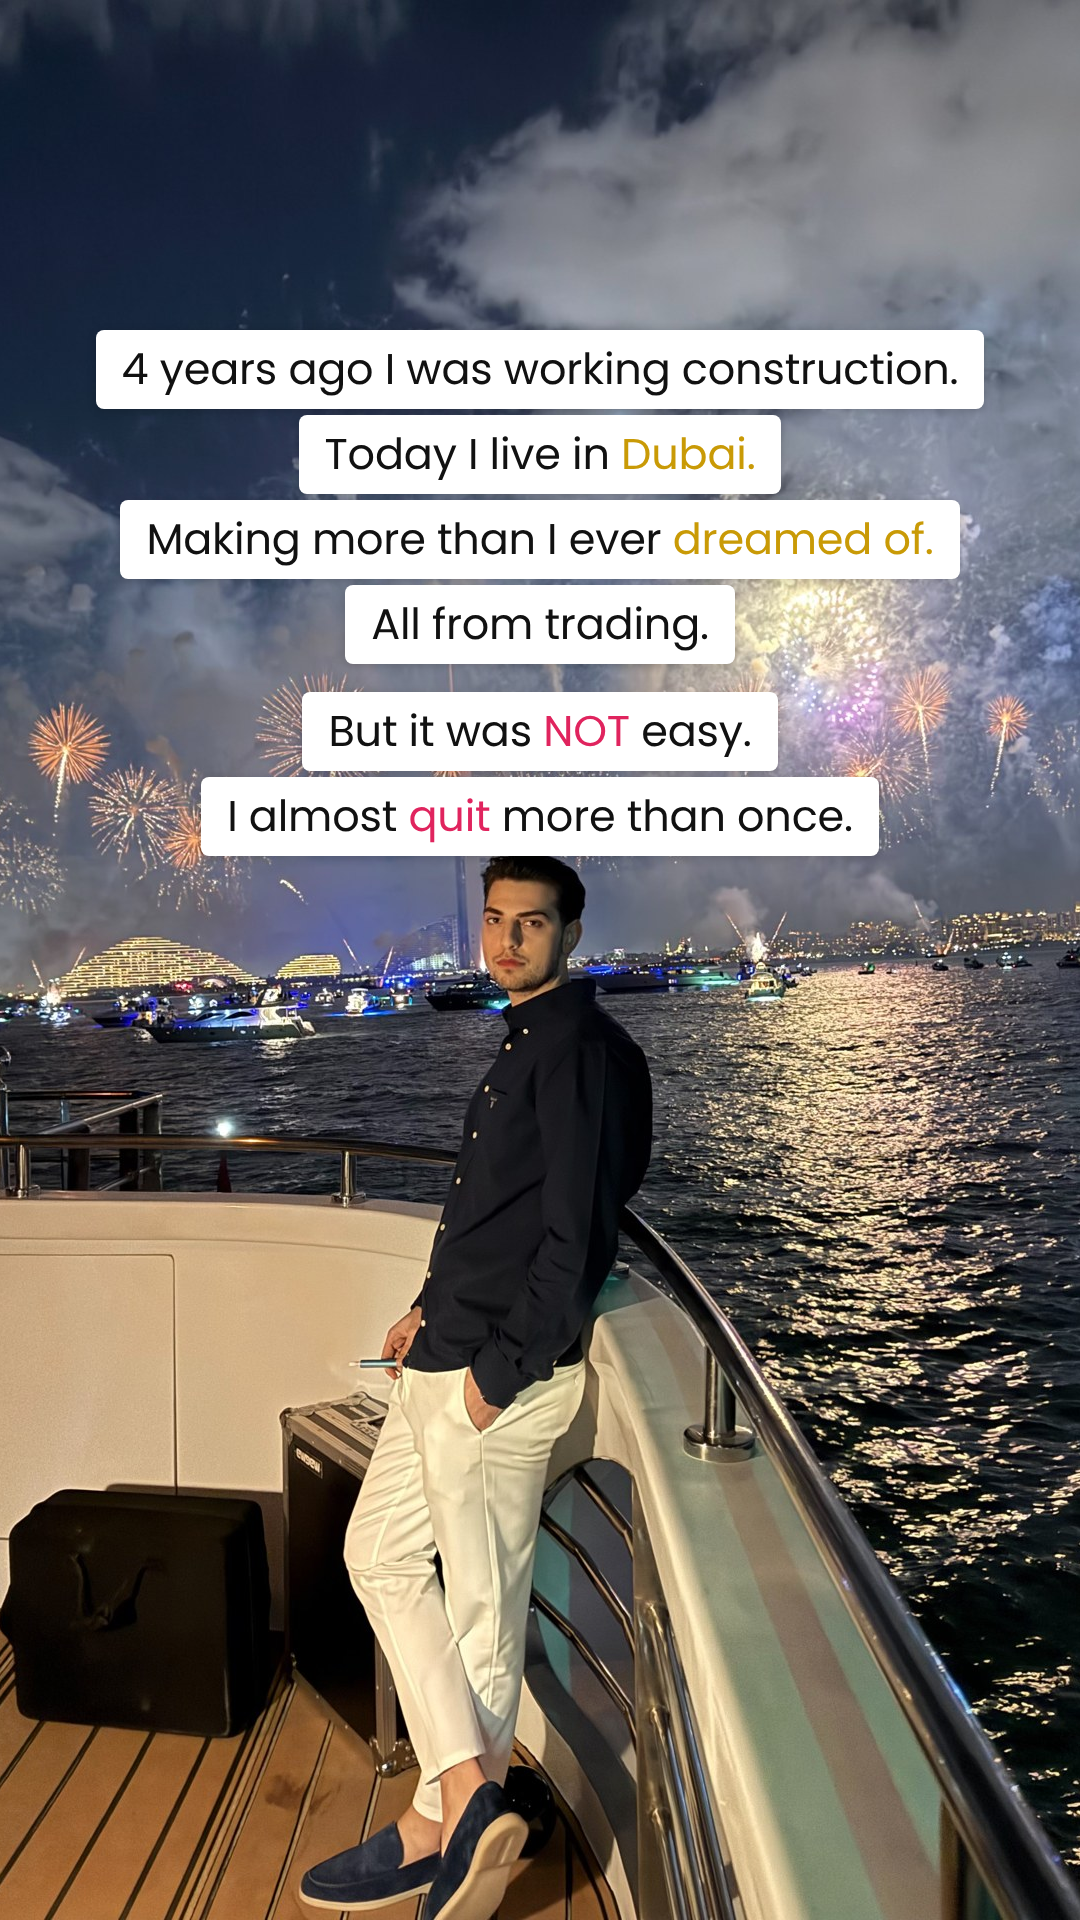
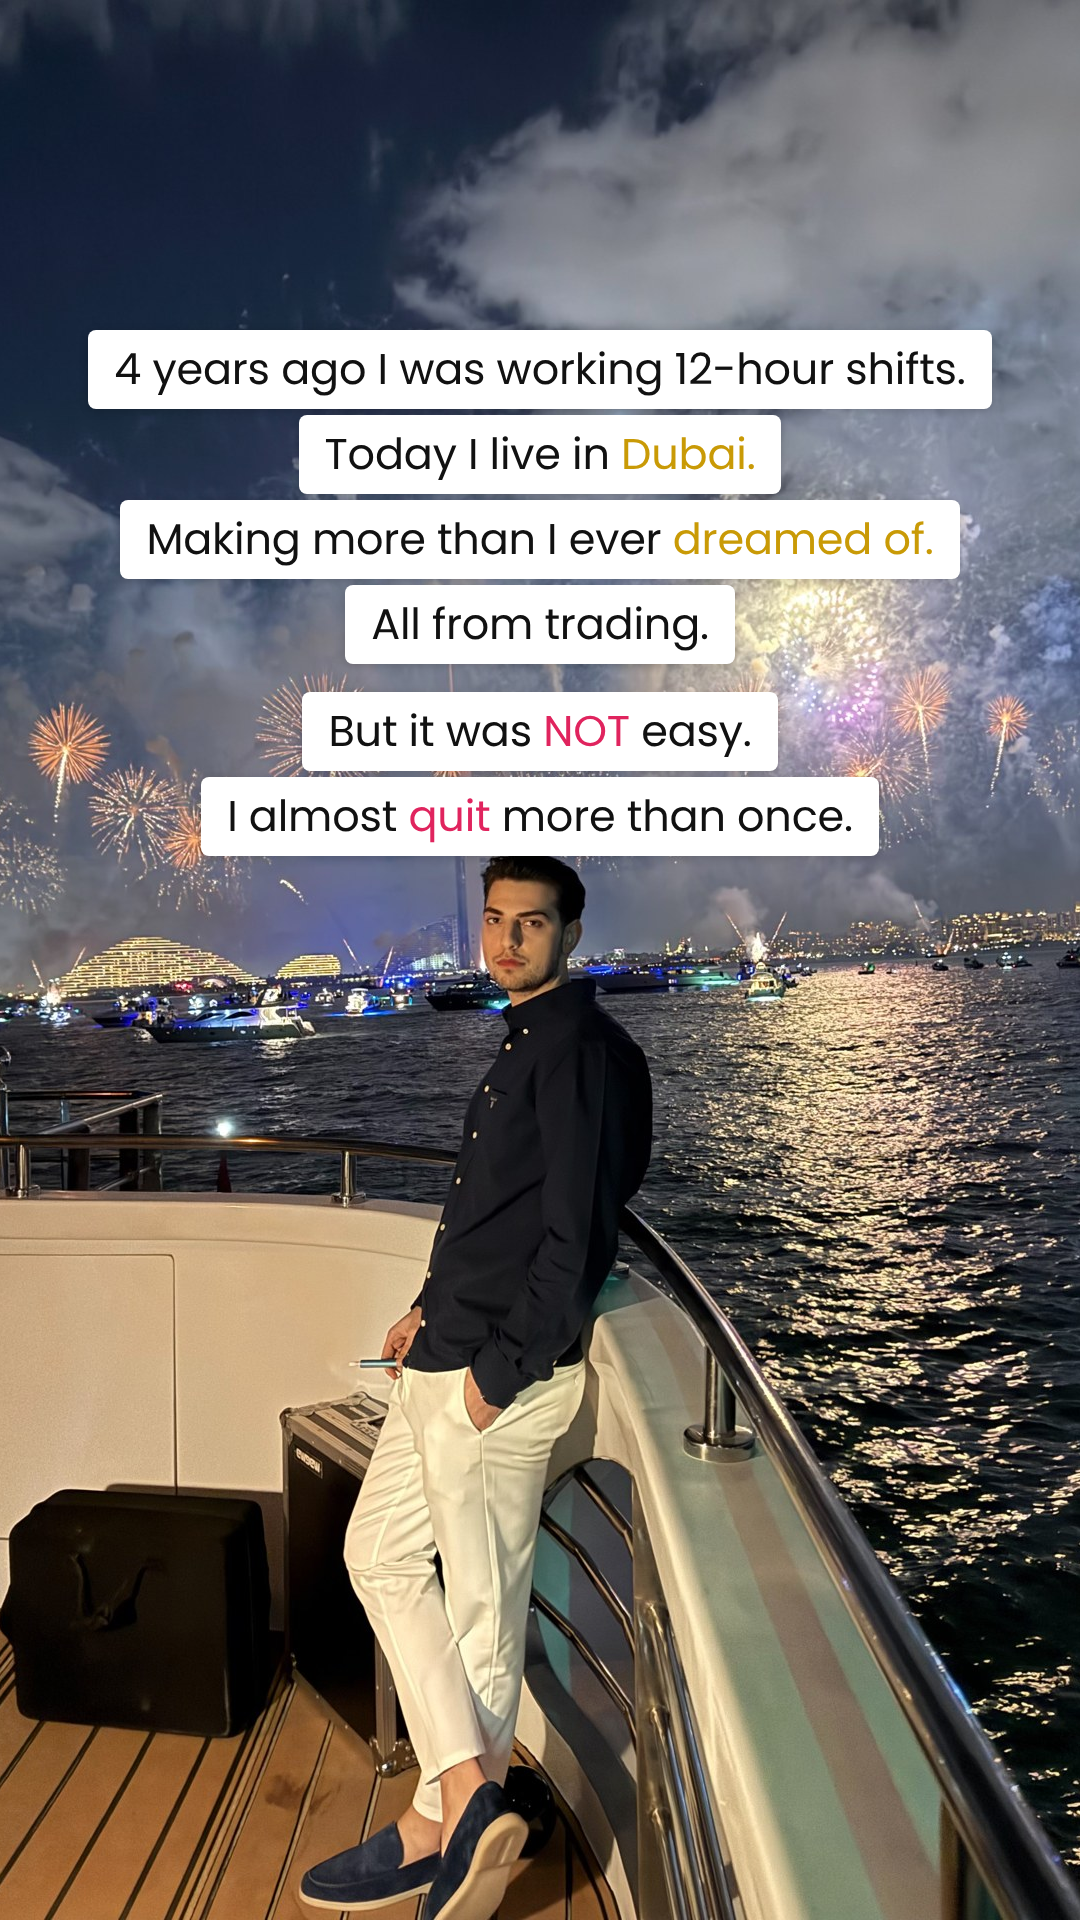
Frame 01: open on 12-hour shifts
Claude-Session: https://claude.ai/code/session_015aTEPXDLdQUfqpoP6cz2Re

Changed region(s): [[0.1222, 0.1875, 0.9167, 0.2188], [0.0611, 0.1562, 0.0917, 0.2188]]

diff --git a/sequences/2026-11-23_hard_elite-mentorship-launch/frames/01.html b/sequences/2026-11-23_hard_elite-mentorship-launch/frames/01.html
@@ -1,7 +1,7 @@
 <!doctype html><html><head><meta charset="utf-8"><link rel="stylesheet" href="style.css"></head><body>
 <div class="bg" style="background-image:url(../assets/01-yacht-dubai.jpg);"></div>
 <div class="stack" style="top:330px">
-<p>4 years ago I was working construction.</p>
+<p>4 years ago I was working 12-hour shifts.</p>
 <p>Today I live in <span class="g">Dubai.</span></p>
 <p>Making more than I ever <span class="g">dreamed of.</span></p>
 <p>All from trading.</p>

diff --git a/sequences/2026-11-23_hard_elite-mentorship-launch/sequence.md b/sequences/2026-11-23_hard_elite-mentorship-launch/sequence.md
@@ -19,7 +19,7 @@
 ## Frames
 
 ### 01: Flex → vulnerability
-- **Copy:** 4 years ago I was working construction. / Today I live in Dubai. / Making more than I ever dreamed of. / All from trading. / But it was NOT easy. / I almost quit more than once.
+- **Copy:** 4 years ago I was working 12-hour shifts. / Today I live in Dubai. / Making more than I ever dreamed of. / All from trading. / But it was NOT easy. / I almost quit more than once.
 - **Assets:** `assets/01-yacht-dubai.jpg` (IMG_9990)
 
 ### 02: Low point → turn
